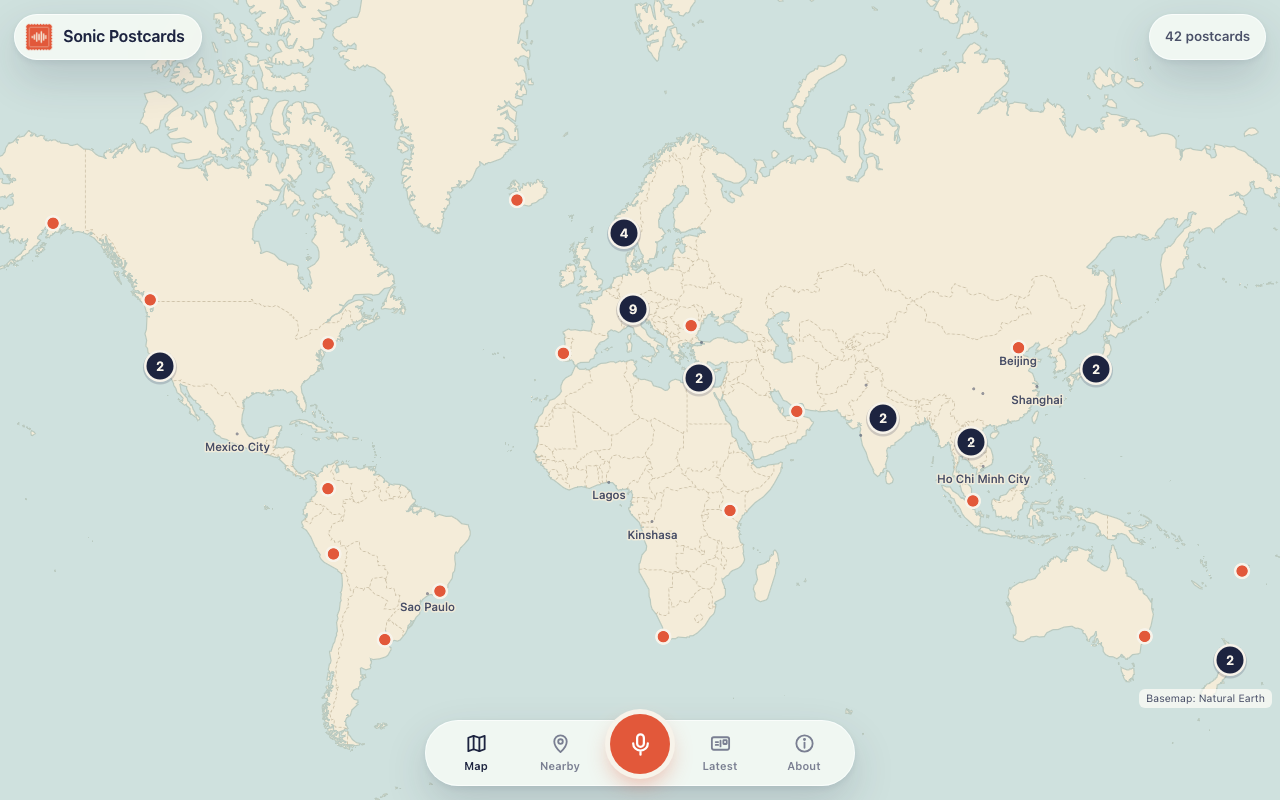
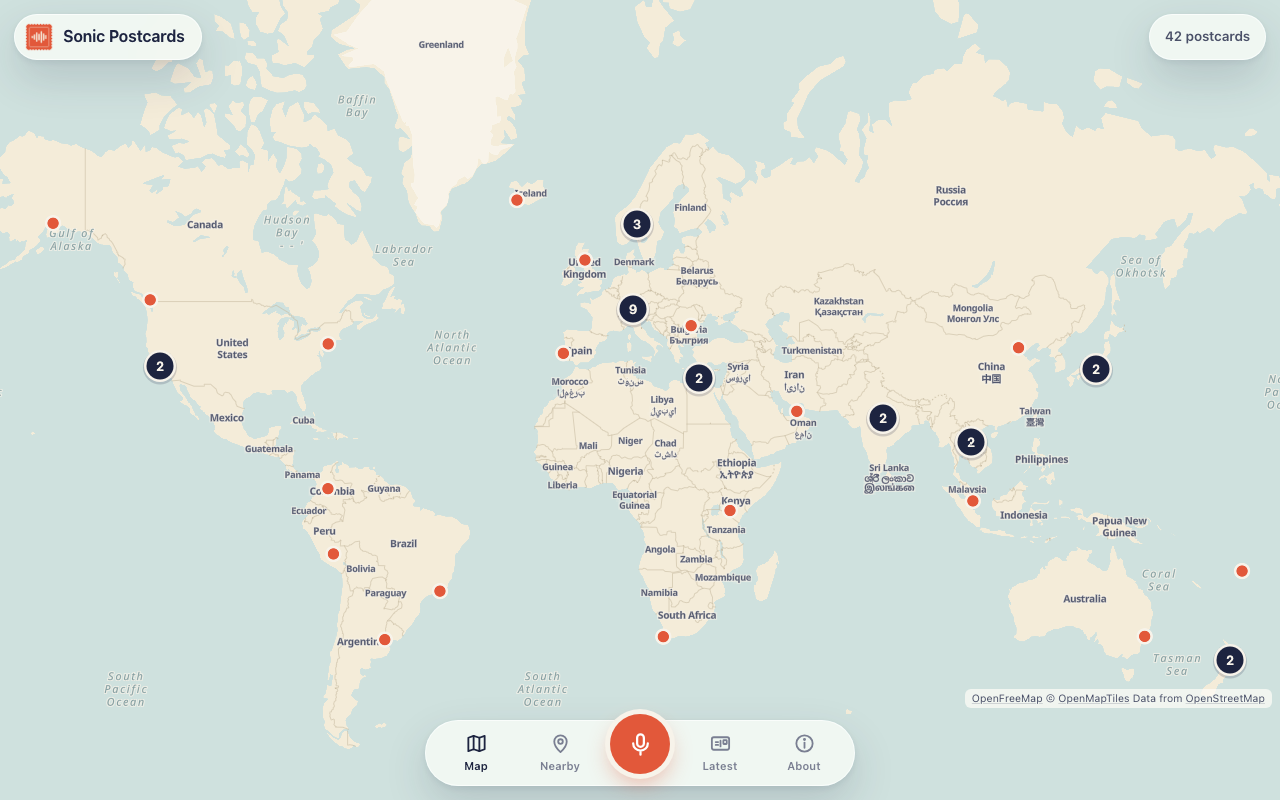
Write the notes for the README and retake the demo and screenshots on the default basemap

diff --git a/NOTES_FOR_README.md b/NOTES_FOR_README.md
@@ -1,0 +1,132 @@
+# Notes for the README
+
+Plain facts for whoever writes the README. Every number here was measured in the build session on the M5 Pro, with the command given next to it.
+
+## Quickstart
+
+- One command from a clean clone: `make dev`, then open http://localhost:4106
+- Needs: Docker (plain `docker build` and `docker run`, no compose), Python 3.12, Node 22. Nothing else is installed on the host: FFmpeg comes inside the PyAV wheel, the audio model is a 16 MB file in the repo.
+- What `make dev` does: builds a Postgres 16 image with PostGIS 3.6 and pgvector 0.8.7 (`db/Dockerfile`, 15 s once the base image is pulled), starts it, creates `api/.venv`, runs `npm ci`, applies migrations, seeds 42 demo postcards (about 9 s, first run only), then starts the API and the web app with hot reload.
+- Fresh-clone check: `git clone` into a temp directory, `make dev` against a new empty database. Healthy after 37 s with warm pip and npm caches. In that clone `make test` gave 70 passed and 17 passed, and `make e2e` passed all 7 checks.
+- Why not `docker compose up`: this machine runs colima with no compose plugin and no buildx (`docker compose` is "unknown command"), so a compose file could not have been tested. There is none in the repo.
+- Ports: web 4106, API 8106, Postgres 5506 (host side). Override with `WEB_PORT`, `API_PORT`, `DB_PORT`.
+- Other commands: `make start` (production build), `make test`, `make lint`, `make e2e`, `make seed-pins`, `make clear-pins`, `make perf`, `make fetch-real`, `make eval`, `make interim`, `make shots`, `make demo`, `make db-stop`. `make help` lists them.
+
+## Environment variables (all optional, defaults in `.env.example`)
+
+| Variable | Default | What it does |
+|---|---|---|
+| `WEB_PORT`, `API_PORT`, `DB_PORT` | 4106, 8106, 5506 | ports |
+| `DATABASE_URL` | `postgresql://sonic:sonic@127.0.0.1:5506/sonic` | Postgres with PostGIS and pgvector; the database is created if missing |
+| `API_URL` | `http://127.0.0.1:8106` | where the web server proxies `/api/*`, read at runtime |
+| `NEXT_PUBLIC_MAP_STYLE` | `auto` | `auto` tries OpenFreeMap then falls back to the bundled basemap, `offline` never uses the network, or any MapLibre style URL. Baked in at build |
+| `STORAGE_BACKEND`, `STORAGE_DIR` | `local`, `./storage` | clip and image storage. `s3` plus `S3_BUCKET`, `S3_ENDPOINT_URL`, `S3_REGION`, `S3_ACCESS_KEY_ID`, `S3_SECRET_ACCESS_KEY`, `S3_PUBLIC_BASE_URL` needs `pip install boto3` |
+| `ASSETS_DIR` | `./assets` | design-time art |
+| `SPEECH_THRESHOLD` | `0.6` | clips above this speech probability are refused |
+| `MIN_CLIP_SECONDS`, `MAX_UPLOAD_BYTES` | `8`, `8000000` | upload limits |
+| `GEOCODER` | `offline` | `offline` (bundled GeoNames) or `nominatim` |
+| `WEATHER` | `none` | `none` or `open-meteo` |
+| `IMAGE_PROVIDER` | `procedural` | `procedural` or `openai`, with `OPENAI_API_KEY`, `OPENAI_BASE_URL`, `IMAGE_MODEL` |
+| `DAILY_POSTCARD_LIMIT`, `REPORT_HIDE_THRESHOLD` | `10`, `3` | moderation |
+| `ADMIN_TOKEN` | empty | enables the admin endpoints; empty means they answer 503 |
+| `DEVICE_SALT` | `change-me-in-production` | salt for hashing device ids |
+| `MAX_PINS` | `8000` | above this many postcards in view the database groups pins on a grid |
+| `SEED_ON_START` | `true` | seed demo postcards when the table is empty |
+
+## What each milestone delivered
+
+- **M1 record, upload, store, play back, map pin.** Browser recorder (MediaRecorder, 10 s, voice processing switched off), `POST /api/postcards`, PyAV decode of WebM/Opus and MP4/AAC, trim and level, MP3 storage behind a `BlobStore` interface, range-request playback, PostGIS point, `GET /api/pins`, MapLibre map with clustering. Tests: `api/tests/test_m1_clip_and_pin.py` (9), `api/tests/test_privacy_grid.py` (15).
+- **M2 tagging, speech rejection, embeddings.** YAMNet through LiteRT, 20 motifs from 353 AudioSet classes, speech probability, 1,024-d embedding in pgvector. Tests: `api/tests/test_m2_tagging.py` (20 with parameters).
+- **M3 postcard and share image.** Prompt builder, image provider adapter, procedural gouache painter (6 settings, 20 motifs, 4 palettes), template overlay with stamp, postmark and caption, 1200x840 PNG plus a 600x420 WebP, Web Share and download. Tests: `api/tests/test_m3_postcard.py` (10).
+- **M4 nearby, similar, moderation, rate limits.** `GET /api/nearby` (radius), `GET /api/postcards/{id}/similar` (cosine, optional radius), report button with auto-hide at 3, 10 per device per rolling 24 h, admin delete, restore and review. Tests: `api/tests/test_m4_feed_search_moderation.py` (9).
+- Also: `api/tests/test_perf_and_seed.py` (3), `api/tests/test_outside_services.py` (4), `web/tests/*.test.ts` (17), `web/scripts/e2e.ts` (7 browser checks).
+- Totals: 70 pytest tests against a real Postgres and the real model, 17 vitest tests, all passing. `ruff` and `mypy --strict` clean, `tsc` strict clean.
+
+## Acceptance tests
+
+| PRD acceptance test | Result | Measured | Where |
+|---|---|---|---|
+| A clip of mostly speech is rejected with a clear message | **met** | Real speech from macOS `say`, real model, real endpoint. Speech probability 0.998 (Opus/WebM monologue), 0.999 (AAC/MP4 chat), 0.817 (speech over rain); all refused with HTTP 422 and a message that says what happened, why, and what to do. Rain with one "hello there" scored 0.021 and was accepted. Also checked in a real browser with the speech played into the microphone. | `api/tests/test_m2_tagging.py::test_acceptance_mostly_speech_is_rejected_with_a_clear_message`, `make e2e` |
+| Stored coordinates never contain more precision than the rounding rule, verified in the database | **met** | Uploads with 6 and 7 decimal places; afterwards Postgres itself finds 0 rows off the grid, the sent digits appear nowhere in the stored rows, and a direct `INSERT` of an off-grid value fails with a CHECK violation (6 cases). The point column is generated and cannot be written. | `api/tests/test_privacy_grid.py` |
+| "Sounds like this" on a rain clip returns rain clips in its top 5 on the fixture set | **met on synthetic data, and met on real data** | Synthetic fixture set (48 clips, 6 rain): all 6 rain queries return 5 of 5 rain. Real ESC-50 subset (96 clips, 8 rain): 8 of 8 rain queries have rain in the top 5, on average 4.5 of the 5 are rain, worst query 1 of 5. Across all 12 classes 3.62 of 5 share the query's class (chance is 0.37). Weakest classes: wind 1.62, engine 2.0, crickets 2.38. | `api/tests/test_m4_feed_search_moderation.py::test_acceptance_sounds_like_this_on_rain_returns_rain_in_the_top_five`; `make fetch-real && make eval`, results in `docs/eval-esc50.json` |
+| Map loads 5,000 pins in under 2 seconds using clustering | **met** | 5,042 pins. API alone: median 36 ms in process, 781 KB of GeoJSON (89 KB gzipped). Browser, cold load of the production build, 7 runs, headless Chromium with software GL (SwiftShader): bundled basemap median 1,083 ms, worst 1,116 ms (fetch 187 ms, cluster and draw 389 ms); OpenFreeMap basemap over the network median 1,559 ms, worst 1,935 ms. The 5,042 pins are drawn as about 50 symbols. | `api/tests/test_perf_and_seed.py::test_acceptance_api_serves_5000_pins_well_inside_the_budget`; `make seed-pins && make start`, then `make perf` |
+
+Notes on honesty for that table:
+- "Real speech" is synthetic voices from `say` (Samantha, Daniel, Karen). No human recordings were used.
+- ESC-50 clips are 5 s long and are played twice to fill 10 s. 96 clips is a small set. The audio is CC BY-NC, is not in the repo, and is fetched by `scripts/fetch_esc50.py`.
+- The 2 s figure with the online basemap depends on a third party's tile server and was 65 ms inside the limit on its worst run.
+
+## Interesting problems
+
+1. **A "500 m" grid is not 500 m in Oslo.** First version rounded both coordinates to 0.005 degrees. That is 556 m of latitude everywhere but only 278 m of longitude at 60 degrees north, so the privacy cell halves exactly where it should not. The longitude step now doubles in bands (5, 10, 20, 40, 80, 160, 320 millidegrees, switching where 1/cos(lat) crosses odd powers of the square root of two), which keeps every cell between 393 m and 786 m wide. Coordinates are stored as integer millidegrees so the rule is exact in Python, TypeScript and a Postgres CHECK, and the PostGIS point is a generated column. The band list stops at 320 because 640 does not divide 360,000 and the grid has to close at the antimeridian. A shared file of 253 vectors is checked by both test suites.
+2. **Synthesising sounds for a model that has only heard real ones.** With no dataset on the machine, the fixtures are noise and sine waves, tagged by the real YAMNet. My first "wind" (a resonant band of noise sweeping over a rumble) came back as Vehicle 0.36, so it is now the traffic fixture. My second wind came back as Ocean 0.90 and is now the waves fixture. Wind finally worked as noise below 250 Hz with a 20 Hz flutter (Wind 0.70): what the model knows as wind is a microphone being buffeted. Rain sits on a ridge between Waterfall (too much hiss) and Fire/Fireworks (too many droplets); the committed version is still tagged "Running water" first and "Rain" second. A train never worked (Music, then Rain) and was dropped. Four attempts at bells still read as Music with Bell at 0.13.
+3. **Map text without a font server.** MapLibre sets text from glyph files fetched over HTTP, which breaks the "works with no network" rule. Cluster counts and the offline city labels are instead drawn on a canvas in the system font and handed to the map as images when it raises `styleimagemissing`. A side effect showed up in the 5,000 pin screenshot: two bubbles looked corrupted. It was not a rendering bug. Cluster centres drift as points merge, so two clusters had landed almost on top of each other and were both drawn. Collision detection with a sort key on the count fixed it.
+4. **A globe's outlines on a flat map.** The bundled basemap uses Natural Earth via `world-atlas`, which is made for spherical projection. Eurasia's ring steps from longitude 179.9 to -179.9 (Chukotka) and Antarctica's ring never returns to its start, so MapLibre drew cream streaks across the Atlantic. `web/src/lib/planar.ts` unwraps the jumps and closes circumpolar rings along the pole.
+5. **A WAV file as the microphone.** Chromium can feed a file into `getUserMedia`, so `make e2e` runs the real recorder, the real upload and the real model in a headless browser. It found two bugs that no unit test would: the progress ring SVG sat on top of the record button and swallowed every tap, and a GPS fix that arrived before the map had loaded was silently dropped.
+6. **Voice processing erases the subject.** Browsers apply echo cancellation, noise suppression and automatic gain to microphone audio by default, which is exactly the rain. All three are switched off in `web/src/lib/recorder.ts`. Related: the 16 kHz copy for the model lost up to 3 dB on hissy clips after the low-pass, so it is levelled a second time.
+
+## Surprises and things I got wrong first
+
+- `docker compose` does not exist on this machine, despite the brief. Found in the first five minutes.
+- Next.js rewrites are frozen at build time, so the API proxy had to become middleware that reads `API_URL` at runtime.
+- pgvector's psycopg adapter returns its own `Vector` type, which `np.asarray` cannot convert. Everything goes through `app.db.as_array`.
+- The pool's `configure` hook must leave the connection idle; `register_vector` opens a transaction.
+- `printable()` (dropping characters the caption font cannot draw) first checked for an empty glyph box. Missing glyphs are not empty, they are the "not defined" box, so the check now compares against a glyph that is certainly missing.
+- My own rolling-window test expected 10 uploads still counted after 24 h 2 min. Three had aged out; the code was right and the test was wrong.
+- Painting first gave all three ground slots to the main motif, so a "market, music, bells" postcard had no guitar. Slots are now dealt one per motif before extras.
+- Playwright cannot see multipart bodies in Chromium, so the end-to-end check reads the form fields inside the page instead.
+- `tsx` wraps named arrow functions in a `__name` helper that does not exist inside `page.evaluate`.
+
+## Limitations
+
+- The demo postcards on a clean clone are synthetic sound, and their tags are whatever YAMNet makes of it. They are marked "Sample" in the UI. The 5,000 pins from `make seed-pins` reuse those clips, so "sounds like this" on them returns near-duplicates.
+- The speech check is one number per clip. Five seconds of clear speech in ten scores about 0.5 and is accepted. It has not been tested on human recordings, other languages, or crowd babble.
+- The rate limit keys on a random id in localStorage. Clearing storage resets it. There is no IP limit.
+- The built-in painter is a rule-based illustrator, not a model: six settings and twenty motifs. Two postcards with the same motifs and time of day look like siblings.
+- The OpenAI image provider and the S3 store have only been run against mocks. Nominatim and Open-Meteo were each called once to record a fixture and are otherwise tested against those recordings.
+- The bundled basemap has coasts, borders and 260 city labels but no streets, so choosing a 500 m cell with no network is guesswork. The default map needs OpenFreeMap to be reachable.
+- No real phone was used. Safari's MP4 path is tested with an AAC file encoded by PyAV, not a recording made by Safari. The microphone needs HTTPS anywhere other than localhost.
+- The service worker is registered only in production builds and has no automated test.
+- Moderation has endpoints and no admin screen.
+- Filtered similarity search relies on pgvector's iterative HNSW scan; recall at scale was not measured.
+- Each postcard PNG is about 1.4 MB because paper grain does not compress.
+- The CI workflow has not run, since nothing was pushed.
+- A clean clone still needs the network once, for pip, npm and the Postgres base image.
+
+## Next three ideas
+
+1. Search by description ("rain on a tin roof") with CLAP embeddings next to the YAMNet ones.
+2. Mute the frames that contain speech instead of refusing the whole clip, so a street recording with one passer-by survives.
+3. A page per grid cell: how the same 500 m square sounds at dawn, at night, in January.
+
+## Real and stand-in
+
+| Part | What runs by default | Real alternative |
+|---|---|---|
+| Audio tagging, speech detection, embeddings | real: YAMNet (Apache 2.0) on LiteRT, chosen over PANNs because it is a 16 MB file and a 13 MB wheel with no PyTorch | none needed |
+| Database | real: Postgres 16, PostGIS, pgvector in Docker | |
+| Audio decode and encode | real: PyAV with its bundled FFmpeg | |
+| Recording | real: MediaRecorder in the browser | |
+| Postcard art | stand-in: built-in procedural painter | `IMAGE_PROVIDER=openai`, untested against the live API |
+| Stamp, postmark, caption | real: drawn by the template in code, always | |
+| Place names | stand-in: nearest city from a bundled GeoNames table (34,160 places, CC BY 4.0) | `GEOCODER=nominatim` |
+| Weather | stand-in: none | `WEATHER=open-meteo` |
+| Object storage | stand-in: local directory | `STORAGE_BACKEND=s3`, untested against a real bucket |
+| Basemap | real when online: OpenFreeMap, recoloured; stand-in when not: bundled Natural Earth outlines | any style URL |
+| Demo audio | stand-in: synthesised in `api/app/fixtures/synth.py` | real ESC-50 clips after `make fetch-real` |
+| Design-time art (30 images) | stand-in: code-drawn files in `assets/interim` | requested in `assets/prompts.md`, none delivered |
+
+## Files in `docs/`
+
+- `demo.gif`: 390x760, 99 frames, 0.56 MB. The clustered world map, a postcard opened and played, ten seconds recorded through the real recorder (a synthetic waves clip as the microphone), the location step, the postcard arriving, and the new pin on the map. Recorded with 5,000 synthetic pins seeded.
+- `map-desktop.png`: the map as a clean clone shows it, 42 demo postcards.
+- `map-5000-pins.png`: the same map with 5,042 pins, clustered.
+- `map-selected-desktop.png`, `map-selected-phone.png`: a pin selected, with the postcard sheet.
+- `postcard-page.png`: a postcard page with "sounds like this", the model's labels and the pin's precision.
+- `record-listening.png`, `record-place.png`, `record-arrival.png`: the three steps of sending a postcard, on a phone-sized screen. `record-place.png` shows the privacy square.
+- `nearby-phone.png`: the nearby feed.
+- `welcome-phone.png`: the first-visit sheet with the three interim illustrations.
+- `about-phone.png`: the About page.
+- `eval-esc50.json`: per-class results of `make eval` on the real clips.
+
+All screenshots and the GIF use the default OpenFreeMap basemap. The 1,083 ms figure above is with the bundled basemap, the 1,559 ms figure with the one in the screenshots.
